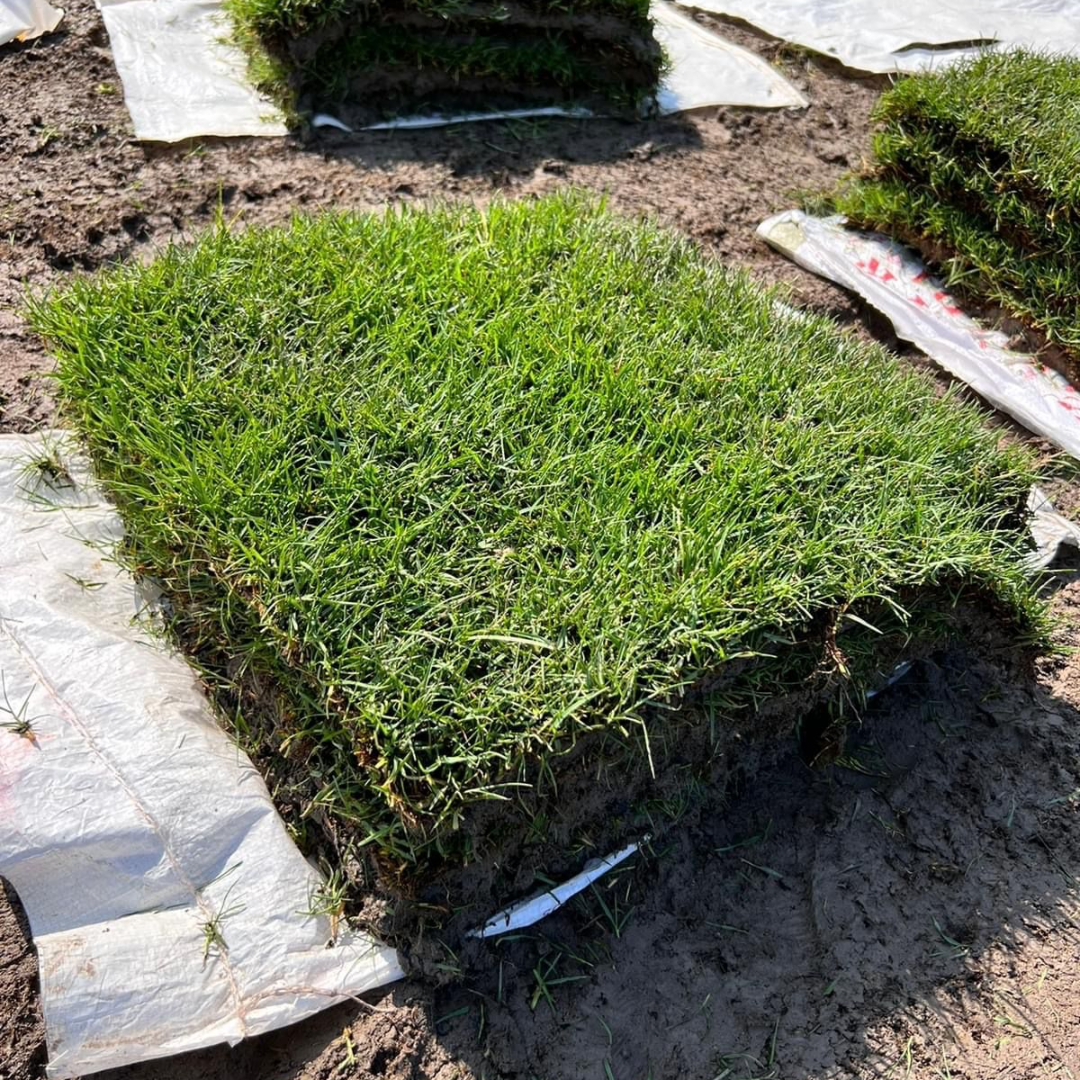
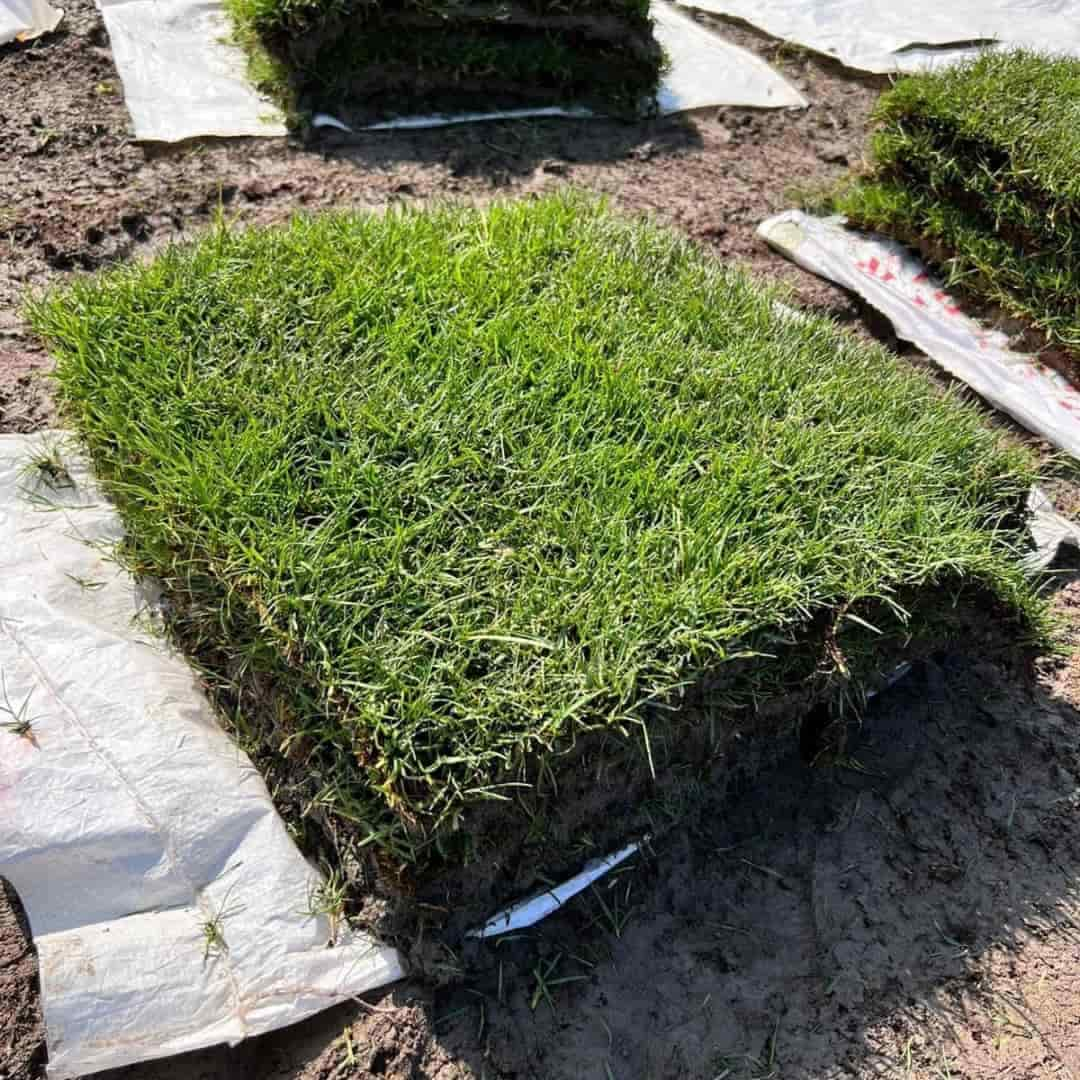
chore(images): optimize images for grass section

diff --git a/app/page.tsx b/app/page.tsx
@@ -30,10 +30,9 @@ import { MessageCircle, X } from "lucide-react";
 
 export default function Home() {
 
-
   const [selectedProduct, setSelectedProduct] = useState<IProducts | null>(null)
 
-  const [isWhatsAppOpen, setIsWhatsAppOpen] = useState(false); // Estado para el dialog de WhatsApp
+  const [isWhatsAppOpen, setIsWhatsAppOpen] = useState(false)
 
   const handleOpenModal = (product: IProducts) => {
     setSelectedProduct(product)
